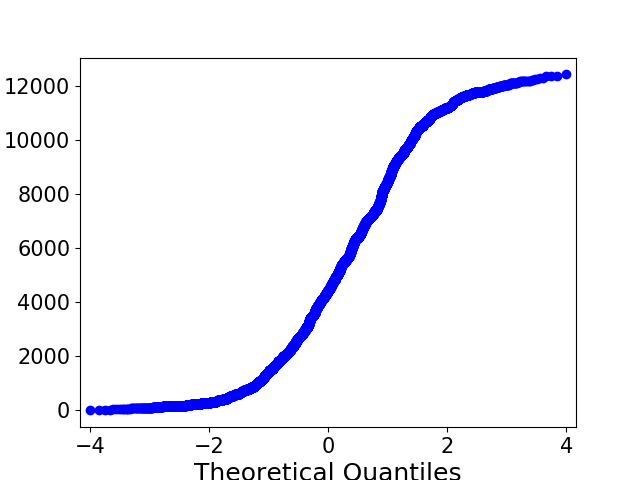
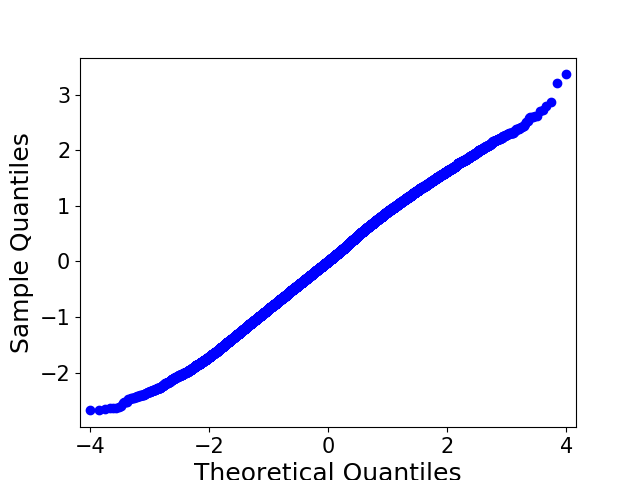
Updated qq plots

diff --git a/src/qq.py b/src/qq.py
@@ -12,12 +12,37 @@ import utils
 import grade_model
 import statsmodels.api as sm
 
+def make_qqplot_boulder():
+    boulders, routes = grade_model.import_data()
+    boulder = grade_model.drop_columns_grades(boulders)
+    X_train1, y_train1, X_hold, y_hold = grade_model.split_data_grades(boulder,'usa_boulders')
+    X_train2, X_test, y_train2, y_test = train_test_split(X_train1, y_train1)
+    standardizer = utils.XyScaler()
+    standardizer.fit(X_train2,y_train2)
+    X_train_std, y_train_std = standardizer.transform(X_train2, y_train2)
+    X_test_std, y_test_std = standardizer.transform(X_test, y_test)
+    X_hold_std, y_hold_std = standardizer.transform(X_hold,y_hold)
+    ridge = RidgeCV(alphas = np.logspace(-2,4,num=250),cv=10)
+    ridge.fit(X_train_std,y_train_std)
+    residuals = y_hold_std - ridge.predict(X_hold_std)
+    sm.graphics.qqplot(residuals)
+    plt.savefig('images/boulders_qqplot.png',fit=True,line='45')
+    plt.show()
+    plt.clf()
 
-boulders, routes = grade_model.import_data()
-boulder = grade_model.drop_columns_grades(boulders)
-X_train, y_train, X_hold, y_hold = grade_model.split_data_grades(boulder,'usa_boulders')
-boulder_ridge, boulder_lasso = grade_model.get_boulder_models(X_train, y_train)
-residuals = y_hold - boulder_ridge.predict(X_hold)
-sm.graphics.qqplot(residuals)
-plt.savefig('images/boulders_qqplot.png')
-plt.show()
+def make_qqplot_route():
+    boulders, routes = grade_model.import_data()
+    route = grade_model.drop_columns_grades(routes)
+    X_train1, y_train1, X_hold, y_hold = grade_model.split_data_grades(route,'usa_routes')
+    X_train2, X_test, y_train2, y_test = train_test_split(X_train1, y_train1)
+    standardizer = utils.XyScaler()
+    standardizer.fit(X_train2,y_train2)
+    X_train_std, y_train_std = standardizer.transform(X_train2, y_train2)
+    X_test_std, y_test_std = standardizer.transform(X_test, y_test)
+    X_hold_std, y_hold_std = standardizer.transform(X_hold,y_hold)
+    ridge = RidgeCV(alphas = np.logspace(-2,4,num=250),cv=10)
+    ridge.fit(X_train_std,y_train_std)
+    residuals = y_hold_std - ridge.predict(X_hold_std)
+    sm.graphics.qqplot(residuals)
+    plt.savefig('images/routes_qqplot.png',fit=True,line='45')
+    plt.show()
